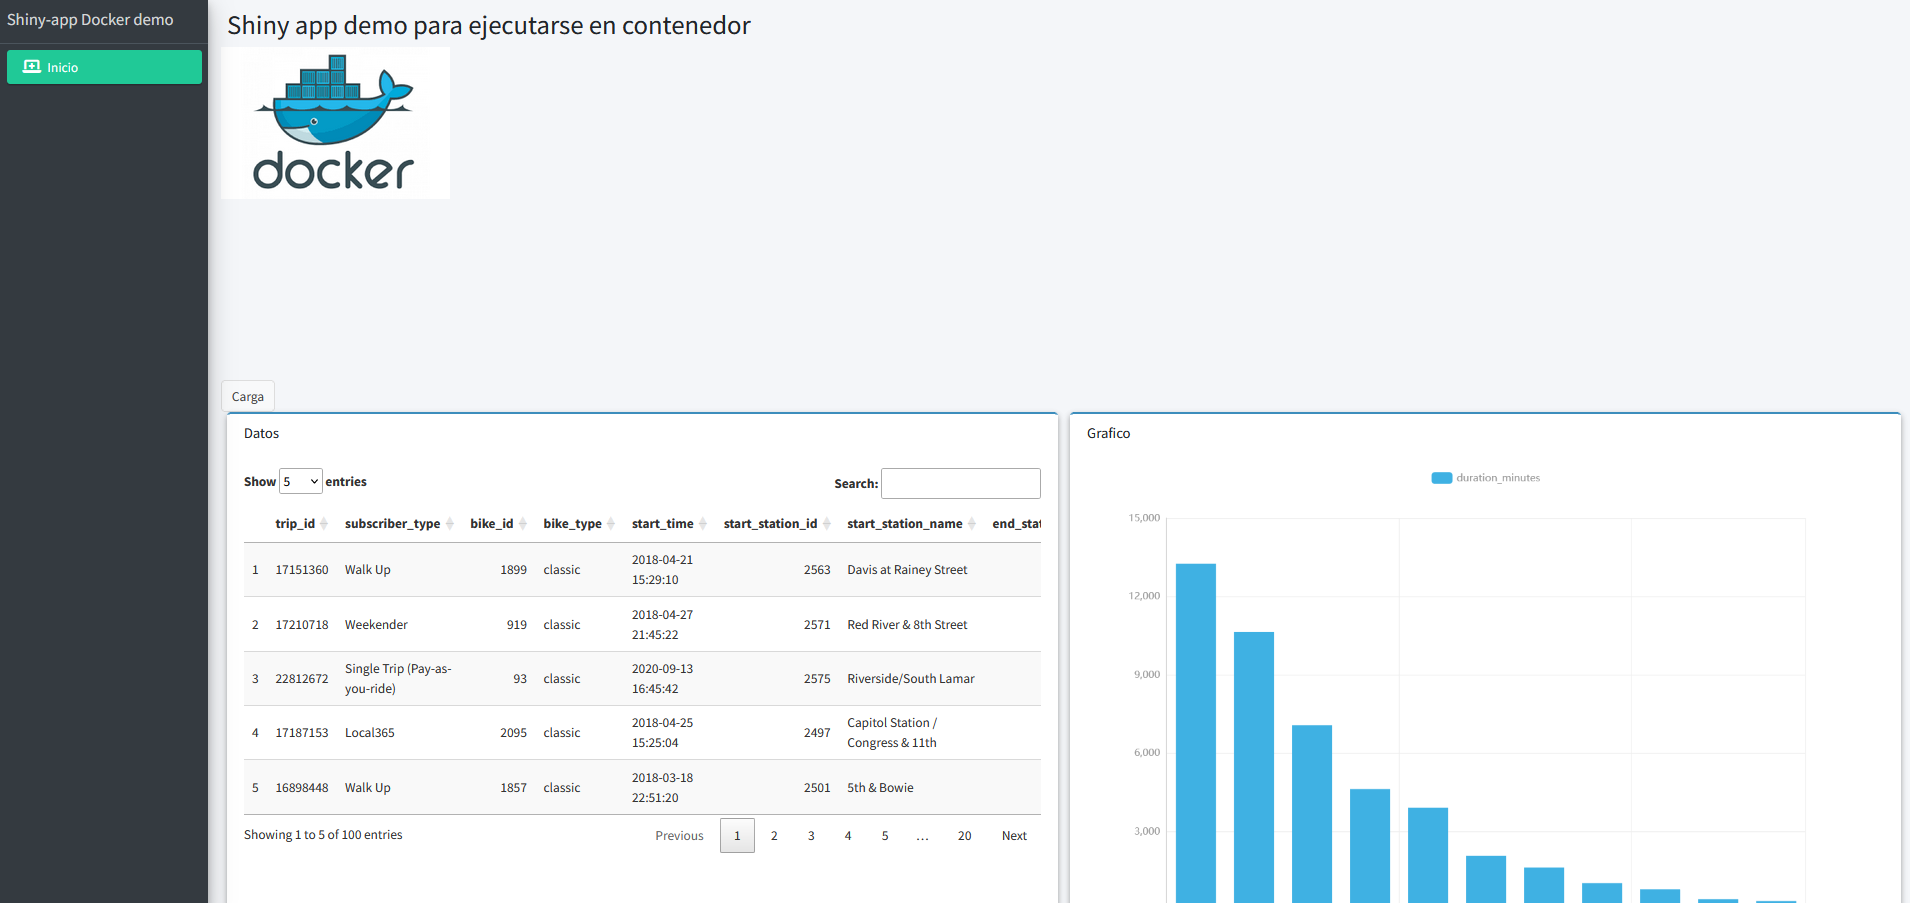
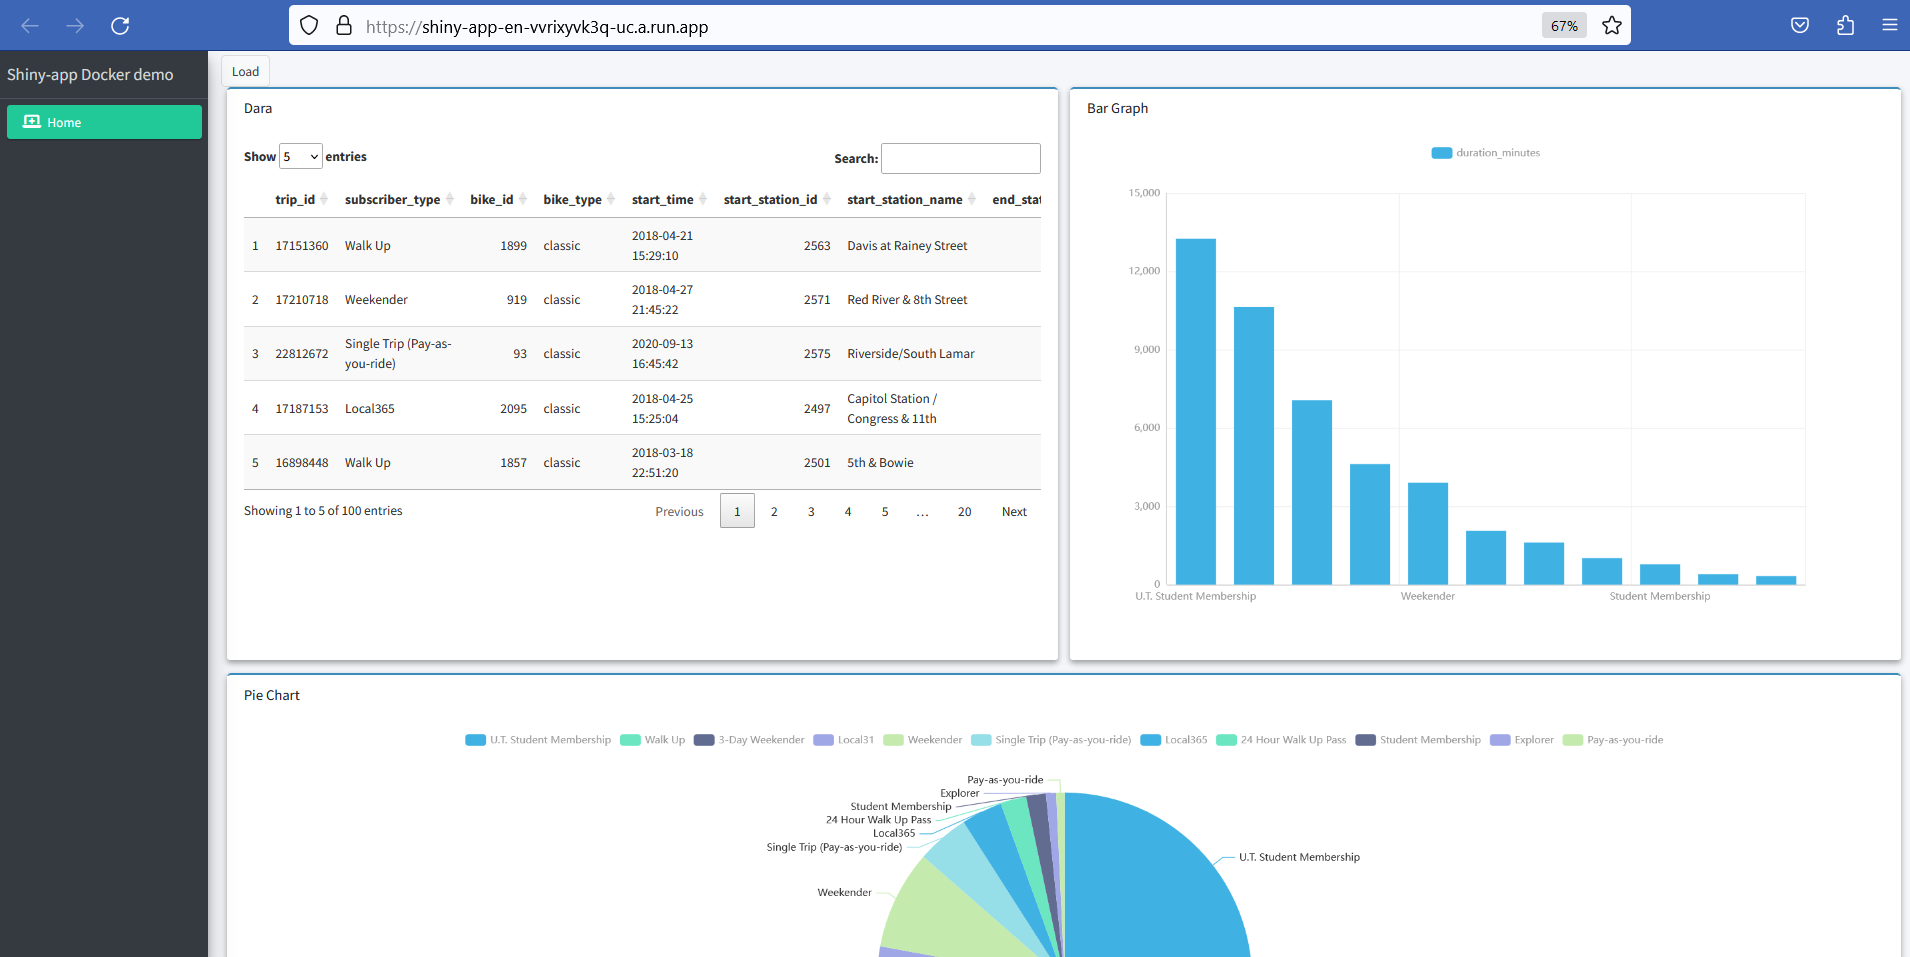
se actualiza readme,dockerfile y app.

diff --git a/README.md b/README.md
@@ -1,18 +1,18 @@
-# Shiny apps en Docker
+# Shiny apps in Docker
 
-Este es un tutorial para ejecutar shiny-apps en el servicio Cloud Run de Google Cloud Platform.Para desplegar una shiny-app se utilizaran imagenes docker,la cual primero se testea de forma local y luego se migra a la nube.En este tutorial se asume que ya tienes instalada Docker,sin embargo a continuación te dejo el enlace para la descarga de [Docker](#0)
+This is a tutorial to run shiny-apps in the Cloud Run service of Google Cloud Platform. To deploy a shiny-app, docker images will be used, which are first tested locally and then migrated to the cloud. In this tutorial It assumes that you already have Docker installed, however below I leave you the link to download [Docker](https://www.docker.com/)
 
-## Estructura
+## Structure
 
-El siguiente proyecto considera como archivos y elementos principales,el archivo **Dockerfile**,la carpeta **mi_app**, y los archivos *shiny-server.conf* y *shiny-server.sh*.
+The following project considers as main files and elements the **Dockerfile** file, the **my_app** folder, and the *shiny-server.conf* and *shiny-server.sh* files.
 
-El archivo Dockerfile sera con el que construiremos el contenedor,en cambio los otros archivos son necesarios para la ejecución de la shiny app.
+The Dockerfile file will be the one with which we will build the container, however the other files are necessary for the execution of the shiny app.
 
 ``` docker
 - 📁 Shiny_apps_docker
   - 📄 README.md
   - 📄 Dockerfile
-    - 📁 mi_app
+    - 📁 my_app
         - 📄 app.R
         - 🖼 docker_1.png
         - 💹 trip_austin.csv        
@@ -31,13 +31,13 @@ El archivo Dockerfile sera con el que construiremos el contenedor,en cambio los 
 
 ### Dockerfile
 
-El archivo docker puede ser modificado segun el tipo de aplicación que se utilice.En este caso si deseas seguir trabajando con shiny apps,y agregar otras features,puedes agregar la instalación de otras librerias para R.
+The docker file can be modified depending on the type of application being used. In this case, if you want to continue working with shiny apps, and add other features, you can add the installation of other libraries for R.
 
 ``` docker
-# Descarga de una version de r del paquete tidyverse
+# Downloading an r version of the tidyverse package
 FROM rocker/shiny-verse:latest
 
-# Librerias de uso general
+# Libraries of general use
 RUN apt-get update && apt-get install -y \
     curl \
     sudo \
@@ -53,24 +53,25 @@ RUN apt-get update && apt-get install -y \
     && rm -rf /var/lib/apt/lists/ \
     && rm -rf /tmp/downloaded_packages/ /tmp/*.rds
 
-# Instalar paquetes de r que sean necesarios
-RUN R -e "install.packages('shiny', repos='http://cran.rstudio.com/')"
+# Install r packages
+RUN R -e "install.packages(c('shiny','htmlwidgets','dplyr','DT','echarts4r','bs4Dash'), repos='http://cran.rstudio.com/')"
 
-# Limpieza
+
+# Cleaning
 RUN rm -rf /tmp/downloaded_packages/ /tmp/*.rds
 
-# Copiar archivos de configuracion en la imagen docker
+# Copy configurations files in the docker image
 COPY shiny-server.conf  /etc/shiny-server/shiny-server.conf
 
-# Copiar shiny app en la imagen docker
-COPY mi_app /srv/shiny-server/
+# Copy shiny app in the docker image
+COPY my_app /srv/shiny-server/
 
 RUN rm /srv/shiny-server/index.html
 
-# Habilitar el puerto 5000 para la shiny app
+# Enable 5000 port
 EXPOSE 5000
 
-# Copiar el archivo de ejecucion de la shiny app en la imagen docker
+# Copy shiny server in the docker image
 COPY shiny-server.sh /usr/bin/shiny-server.sh
 
 USER shiny
@@ -80,88 +81,88 @@ CMD ["/usr/bin/shiny-server"]
 
 ## Build
 
-Para construir la imagen docker llamada shiny_app,se usa la siguiente linea.
+To build the docker image called shiny_app, the following line is used.
 
 ``` docker
 docker build -t shiny_app .
 ```
 
-Si la imagen se construye bien,esta sera la que migremos a la nube.
+If the image is built well, this will be the one we migrate to the cloud.
 
 ## Run
 
-Una vez lista la imagen shiny_app,ejecutamos la siguiente linea para ejecutar nuestra imagen dentro de un contenedor de forma local,la app tendra expuesto el puerto 5000.
+Once the shiny_app image is ready, we execute the following line to run our image inside a container locally, the app will have port 5000 exposed.
 
 ``` docker
 docker run -d -p 5000:5000 shiny_app 
 ```
 
-## Acceso al contenedor
+## Access to container
 
-Si todos los pasos anteriores se desarrollaron de forma correcta,el contenedor se debe estar ejecutando en la siguiente dirección local.
+If all the previous steps were carried out correctly, the container should be running at the following local address.
 
 [127.0.0.1:5000](http://127.0.0.1:5000)
 
 ![app-shiny](image_app.png)
 
-## Migrar imagen Docker
+## Push docker image
 
-Para migrar la imagen ya construida,primero debemos habilitar el servicio Artifact Registry en Google Cloud Platform.Si lo habilitamos de forma correcta deberiamos ver la siguiente pantalla.
+To migrate the already built image, we must first enable the Artifact Registry service in Google Cloud Platform. If we enable it correctly we should see the following screen.
 
 ![artifact_rgistry_gcp](artifact_registry.png)
 
-Luego en este servicio debemos crear un repositorio,el cual puede ser creado desde la consola de GCP o desde el menu **Create Repository**.
+Then in this service we must create a repository, which can be created from the GCP console or from the **Create Repository** menu.
 
-![crear repositorio](create_repo.png)
+![create repository](create_repo.png)
 
-Cuando creamos el repositorio elegimos el format como Docker,el mode como standar y la region en este caso la fijare en southamerica-west1[Santiago].Una vez creado el repositorio configuramos de forma local nuestro docker para poder hacer push o pull a las imagenes.
+When we create the repository we choose the format as Docker, the mode as standard and the region in this case I will set it to southamerica-west1[Santiago]. Once the repository is created we configure our docker locally to be able to push or pull the images .
 
 ``` dockerfile
 gcloud auth configure-docker southamerica-west1-docker.pkg.dev
 ```
 
-Luego tenemos le tenemos que etiquetar a nuestra shiny_app con la ruta del directorio del repositorio de imagenes en la nube.
+Then we have to tag our shiny_app with the directory path of the cloud image repository.
 
 ``` dockerfile
-docker tag shiny_app:latest southamerica-west1-docker.pkg.dev/driven-saga-403916/docker-repo/shiny_app:latest
+docker tag shiny_app_en:latest southamerica-west1-docker.pkg.dev/driven-saga-403916/docker-repo/shiny_app_en:latest
 ```
 
-Una vez etiquetada la imagen,le podemos dar a push a la imagen con la siguiente linea
+Once the image has been tagged, we can push the image with the following line.
 
 ``` dockerfile
-docker tag shiny_app:latest southamerica-west1-docker.pkg.dev/driven-saga-403916/docker-repo/shiny_app:latest
+docker push southamerica-west1-docker.pkg.dev/driven-saga-403916/docker-repo/shiny_app_en:latest
 ```
 
-Si la imagen fue cargada correctamente la podremos ver en el repositorio de Artifact Registry como se ve en la imagen.
+If the image was uploaded correctly we can see it in the Artifact Registry repository as seen in the image.
 
-![imagen en el repo docker](image_repo_docker.png)
+![image in the repo docker](image_repo_docker.png)
 
-Como podemos ver en la imagen,ya tenemos la imagen de nuestra app shiny.De esta forma ahora la podemos desplegar con el servicio Cloud Run.
+As we can see in the image, we already have the image of our shiny app. This way we can now deploy it with the Cloud Run service.
 
-## Desplegar con Cloud Run
+## Deploy with Cloud Run
 
-Una vez accedemos al servicio Cloud Run,tenemos que crear un servicio en donde se abrira el siguiente menu.
+Once we access the Cloud Run service, we have to create a service where the following menu will open.
 
-![Configuracion cloud run](cloud_run_1.png)
+![Configuration Cloud Run](cloud_run_1.png)
 
-Desde el menu de configuracion del servicio tenemos que seleccionar en la primera opcion **Container image URL**,la ruta en donde se encuentra nuestra imagen en el repositorio,luego asignamos el **Service Name** y la **Region**.
+From the service configuration menu we have to select in the first option **Container image URL**, the path where our image is located in the repository, then we assign the **Service Name** and the **Region** .
 
-Mas abajo seleccionamos el valor de 1 en la opcion **Minimum number of instances**,para que el primer despliegue no sea tan lento.
+Below we select the value of 1 in the **Minimum number of instances** option, so that the first deployment is not so slow.
 
-Ademas en el menu **Authentication**,seleccionamos la opcion ***Allow unauthenticated invocations***
+Also in the **Authentication** menu, we select the option ***Allow unauthenticated invocations***
 
-Finalmente en el ultimo modulo de configuracion seleccionamos el valor de 5000 en la opcion **Container port**,que corresponde al puerto asignamos en el dockerfile.
+Finally, in the last configuration module we select the value of 5000 in the **Container port** option, which corresponds to the port we assigned in the dockerfile.
 
-Si la imagen se despliega de forma correcta,la deberiamos poder ver como se ve en la imagen.
+If the image is displayed correctly, we should be able to see it as it looks in the image.
 
-![servicio desplegado en cloud run](cloud_run_2.png)
+![Deploy service in cloud run](cloud_run_2.png)
 
-Finalmente si queremos acceder al servicio,podemos entrar al URL que se nos muestra en la imagen.
+Finally, if we want to access the service, we can enter the URL shown in the image.
 
-Se los dejo a continuación.
+I leave them below.
 
-<https://shiny-app-vvrixyvk3q-uc.a.run.app>
+<https://shiny-app-en-vvrixyvk3q-uc.a.run.app/>
 
-Aca se una vista de la shiny app.
+Here is a view of the shiny app.
 
-![Shiny app desplegada](cloud_run_3.png)
+![Shiny app deploy](cloud_run_3.png)
